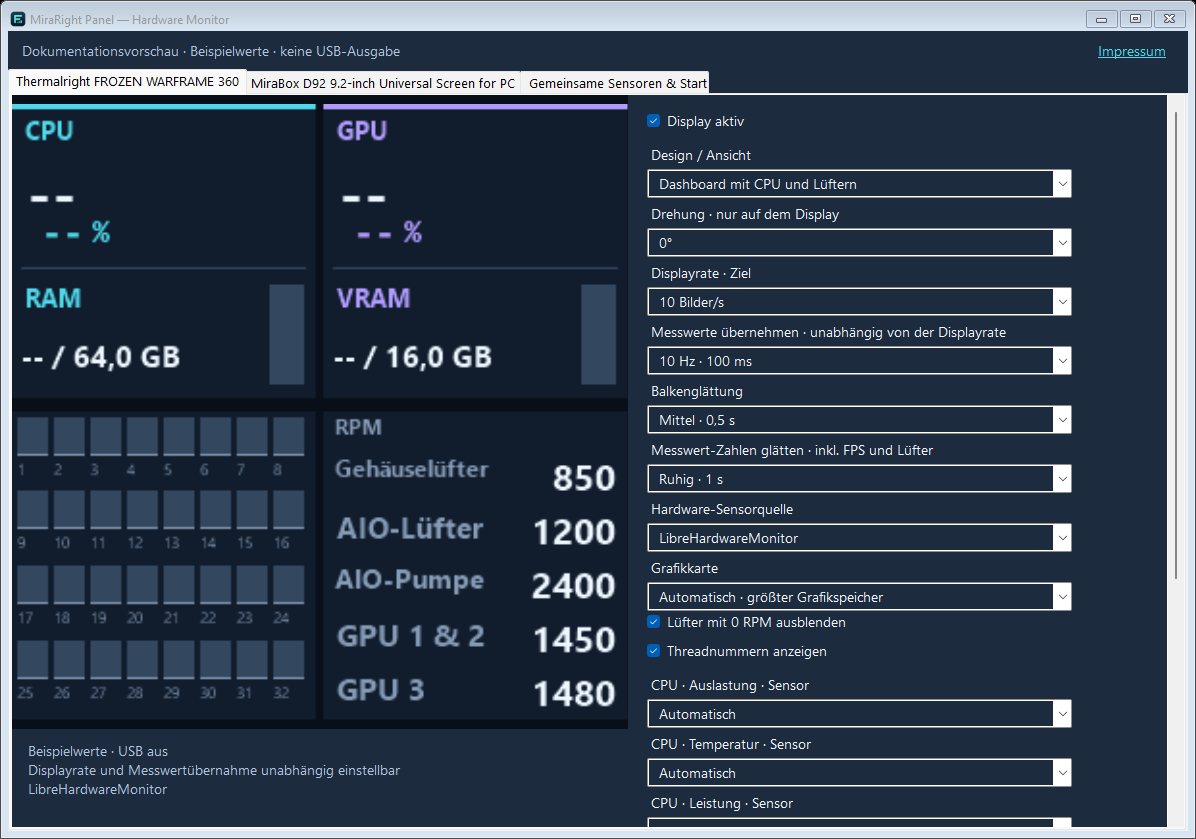
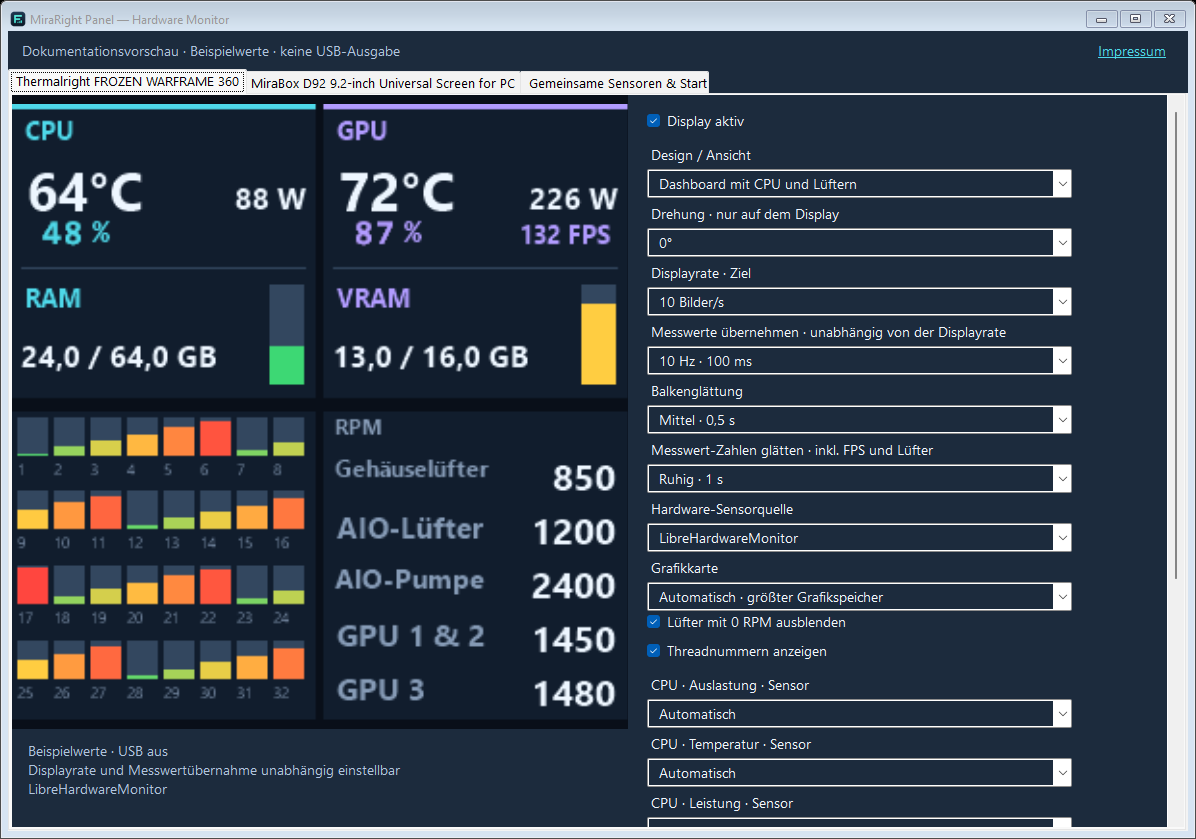
Show CPU and GPU watts with FPS on Thermalright dashboard

diff --git a/src/AioDisplay.App/Rendering/PanelRenderer.cs b/src/AioDisplay.App/Rendering/PanelRenderer.cs
@@ -11,6 +11,15 @@ using System.Windows.Forms;
 
 public static class PanelRenderer
 {
+    public sealed record DashboardMetrics(double? CpuWatts, double? GpuWatts, double? Fps);
+    public static string MetricText(double? value, string unit, bool fresh) => fresh && value is double number && double.IsFinite(number) && number >= 0 && number < 100000 ? number.ToString("0") + " " + unit : "— " + unit;
+    static void RightText(Graphics g, string text, float right, float y, float size, Color color, int maxWidth)
+    {
+        using var font = new Font("Segoe UI", size, FontStyle.Bold, GraphicsUnit.Point);
+        float width = g.MeasureString(text, font).Width;
+        if (width > maxWidth && size > 6) { RightText(g, text, right, y, size - 0.5f, color, maxWidth); return; }
+        using var brush = new SolidBrush(color); g.DrawString(text, font, brush, right - width, y);
+    }
     // Relative to the existing physical mounting orientation; clockwise on the LCD.
     public static void ApplyRotation(Bitmap image, int degrees)
     {
@@ -106,9 +115,9 @@ public static class PanelRenderer
         return load < 50 ? Blend(low, middle, load / 50) : Blend(middle, high, (load - 50) / 50);
     }
     static Color Blend(Color a, Color b, double t) { return Color.FromArgb((int)Math.Round(a.R + (b.R - a.R) * t), (int)Math.Round(a.G + (b.G - a.G) * t), (int)Math.Round(a.B + (b.B - a.B) * t)); }
-    public static Bitmap RenderView(SensorSnapshot s, double total, int view, bool numbers, bool? hideStoppedFans = null)
+    public static Bitmap RenderView(SensorSnapshot s, double total, int view, bool numbers, bool? hideStoppedFans = null, DashboardMetrics metrics = null)
     {
-        if (view == 6) return RenderDashboard(s, total, numbers, FanData.Read(s), hideStoppedFans);
+        if (view == 6) return RenderDashboard(s, total, numbers, FanData.Read(s), hideStoppedFans, metrics);
         if (view == 1) return Render(s, total);
         if (view < 0 || view > 5) view = 0;
         Bitmap bmp = view == 0 ? new Bitmap(320, 320) : Render(s, total);
@@ -176,7 +185,7 @@ public static class PanelRenderer
         Color color = percent >= 90 ? Color.FromArgb(255, 58, 63) : percent >= 85 ? Color.FromArgb(255, 153, 51) : percent >= 80 ? Color.FromArgb(255, 205, 65) : Color.FromArgb(61, 216, 116);
         if (fill > 0) Rect(g, color, x, y + height - fill, width, fill);
     }
-    public static Bitmap RenderDashboard(SensorSnapshot s, double total, bool numbers, System.Collections.Generic.List<FanReading> fans, bool? hideStoppedFans = null)
+    public static Bitmap RenderDashboard(SensorSnapshot s, double total, bool numbers, System.Collections.Generic.List<FanReading> fans, bool? hideStoppedFans = null, DashboardMetrics metrics = null)
     {
         var bmp = Render(s, total); using (var g = Graphics.FromImage(bmp))
         {
@@ -185,8 +194,19 @@ public static class PanelRenderer
             Rect(g, Tile, 0, 0, 158, 153); Rect(g, Tile, 162, 0, 158, 153);
             Rect(g, Cyan, 0, 0, 158, 3); Rect(g, Purple, 162, 0, 158, 3);
             Text(g, "CPU", 5, 5, 10, Cyan); Text(g, "GPU", 167, 5, 10, Purple);
-            Text(g, Value(s, 0x80, "CPU temperature", "°C"), 3, 22, 24, White, 153);
-            Text(g, Value(s, 0, "GPU temperature", "°C"), 165, 22, 24, White, 153);
+            if (metrics == null)
+            {
+                Text(g, Value(s, 0x80, "CPU temperature", "°C"), 3, 22, 24, White, 153);
+                Text(g, Value(s, 0, "GPU temperature", "°C"), 165, 22, 24, White, 153);
+            }
+            else
+            {
+                Text(g, Value(s, 0x80, "CPU temperature", "°C"), 3, 25, 21, White, 92);
+                Text(g, Value(s, 0, "GPU temperature", "°C"), 165, 25, 21, White, 92);
+                RightText(g, MetricText(metrics.CpuWatts, "W", s.Fresh), 155, 39, 11, White, 59);
+                RightText(g, MetricText(metrics.GpuWatts, "W", s.Fresh), 317, 39, 11, White, 59);
+                RightText(g, MetricText(metrics.Fps, "FPS", s.Fresh), 317, 59, 10, Purple, 85);
+            }
             LoadText(g, s, 0x90, "CPU usage", 6, 56, 13, Cyan);
             LoadText(g, s, 0x30, "GPU usage", 168, 56, 13, Purple);
             Rect(g, Track, 5, 85, 148, 1); Rect(g, Track, 167, 85, 148, 1);

diff --git a/tests/AioDisplay.Tests/ThermalrightMetricsChecks.cs b/tests/AioDisplay.Tests/ThermalrightMetricsChecks.cs
@@ -1,0 +1,30 @@
+// SPDX-License-Identifier: GPL-3.0-only
+using AioDisplay.App;
+using System.Drawing;
+
+internal static class ThermalrightMetricsChecks
+{
+    static bool Same(Bitmap a, Bitmap b, Rectangle region)
+    {
+        for(int y=region.Top;y<region.Bottom;y++)for(int x=region.Left;x<region.Right;x++)if(a.GetPixel(x,y)!=b.GetPixel(x,y))return false;
+        return true;
+    }
+    public static void Run()
+    {
+        foreach(double? value in new double?[]{null,double.NaN,double.PositiveInfinity,-1,double.MaxValue})
+            if(PanelRenderer.MetricText(value,"W",true)!="— W")throw new Exception("Invalid metric rendered as valid");
+        if(PanelRenderer.MetricText(0,"W",true)!="0 W"||PanelRenderer.MetricText(144,"FPS",true)!="144 FPS"||PanelRenderer.MetricText(144,"FPS",false)!="— FPS")throw new Exception("Zero/FPS/stale metric text");
+        var sample=new FlexPanel.Snapshot{CpuTemp=73,GpuTemp=81,CpuLoad=9,GpuLoad=100,CpuWatts=105,GpuWatts=275,Fps=144,RamUsed=24,RamTotal=64,VramUsed=12,VramTotal=16,CpuThreads=Enumerable.Range(0,32).Select(i=>(double?)(i*3)).ToArray(),Sensors=[new("cpu","CPU","Cpu","load","CPU Total","Load",9)]};
+        var profile=new DisplayProfile();
+        using var image=UnifiedEngine.RenderThermalright(sample,profile);
+        using var changed=UnifiedEngine.RenderThermalright(sample with{CpuWatts=250,GpuWatts=499,Fps=999},profile);
+        if(Same(image,changed,new Rectangle(96,35,60,22))||Same(image,changed,new Rectangle(258,35,60,22))||Same(image,changed,new Rectangle(232,58,86,23)))throw new Exception("Power/FPS not connected to Thermalright dashboard");
+        if(!Same(image,changed,new Rectangle(0,85,320,235))||!Same(image,changed,new Rectangle(163,56,65,25)))throw new Exception("New readouts affected memory/threads/fans or GPU percent slots");
+        using var missing=UnifiedEngine.RenderThermalright(sample with{CpuWatts=null,GpuWatts=null,Fps=null},profile);
+        using var invalid=UnifiedEngine.RenderThermalright(sample with{CpuWatts=double.NaN,GpuWatts=-1,Fps=double.PositiveInfinity},profile);
+        if(!Same(missing,invalid,new Rectangle(0,0,320,320)))throw new Exception("Missing and invalid values must both be unavailable");
+        image.Save("work/thermalright-watts-fps.png");missing.Save("work/thermalright-watts-fps-missing.png");
+        using var large=UnifiedEngine.RenderThermalright(sample with{CpuTemp=105,GpuTemp=100,CpuWatts=9999,GpuWatts=9999,Fps=9999},profile);large.Save("work/thermalright-watts-fps-large.png");
+        Console.WriteLine("PASS: Thermalright watts/FPS, missing/invalid/zero/stale readouts and unchanged lower layout/percent slots");
+    }
+}

diff --git a/tests/AioDisplay.Tests/TestRunner.cs b/tests/AioDisplay.Tests/TestRunner.cs
@@ -25,7 +25,7 @@ internal static class TestRunner
             if (args.FirstOrDefault() == "--lifecycle") { IntegrationChecks.Lifecycle(args[2], args[3]); return 0; }
             if (args.FirstOrDefault() == "--parent-harness") { IntegrationChecks.ParentHarness(args[2]); return 0; }
             foreach (var type in new[] { typeof(Check), typeof(SettingsCheck), typeof(BarAveragerCheck), typeof(HardwareCheck), typeof(SnapshotFilesCheck), typeof(AboutChecks) }) type.GetMethod("Main", BindingFlags.Static | BindingFlags.Public | BindingFlags.NonPublic).Invoke(null, null);
-            DiscoveryChecks.Main(); FanNamesChecks.Main(); ProtocolChecks(); DebugLogChecks.Run(); PercentageChecks.Run(); ReadoutChecks.Run(); GpuDetailsChecks.Run(); UnifiedChecks.Run(); Console.WriteLine("ALL REGRESSION TESTS PASSED"); return 0;
+            DiscoveryChecks.Main(); FanNamesChecks.Main(); ProtocolChecks(); DebugLogChecks.Run(); PercentageChecks.Run(); ReadoutChecks.Run(); GpuDetailsChecks.Run(); UnifiedChecks.Run(); ThermalrightMetricsChecks.Run(); Console.WriteLine("ALL REGRESSION TESTS PASSED"); return 0;
         }
         catch (Exception e) { Console.Error.WriteLine(e is TargetInvocationException ? e.InnerException : e); return 1; }
         finally { SensorHub.Stop(); }

diff --git a/src/AioDisplay.App/Services/UnifiedEngine.cs b/src/AioDisplay.App/Services/UnifiedEngine.cs
@@ -16,7 +16,7 @@ public sealed class UnifiedEngine : IDisposable {
  public static Bitmap RenderThermalright(FlexPanel.Snapshot sample,DisplayProfile profile){
   var adapted=UnifiedSensorHub.ToAio(sample);
   foreach(var bar in sample.BarValues)adapted.BarValues[bar.Key.StartsWith("thread:")?"thread:"+(int.Parse(bar.Key[7..])+1):bar.Key]=bar.Key is "ram" or "vram"?bar.Value*1024:bar.Value;
-  return PanelRenderer.RenderView(adapted,sample.RamTotal??double.NaN,profile.AioView,profile.ThreadNumbers,profile.HideStoppedFans);
+  return PanelRenderer.RenderView(adapted,sample.RamTotal??double.NaN,profile.AioView,profile.ThreadNumbers,profile.HideStoppedFans,new PanelRenderer.DashboardMetrics(sample.CpuWatts,sample.GpuWatts,sample.Fps));
  }
  public void Start(){
   sensorTask=Task.Run(async()=>{try{while(!stop.IsCancellationRequested){try{latest=hub.Read();}catch(Exception e){latest=new();Log.Write("Shared sensors: "+e.Message);}await Task.Delay(50,stop.Token);}}catch(OperationCanceledException)when(stop.IsCancellationRequested){}});

diff --git a/tools/Screenshots/Program.cs b/tools/Screenshots/Program.cs
@@ -31,6 +31,7 @@ static class DocumentationScreenshots
             RamUsed=24, RamTotal=64, RamFree=40, RamTemp=42, RamWatts=null,
             VramUsed=13, VramTotal=16, VramFree=3,
             Fps=132, FrameMs=7.58, FrameApp="Beispiel-Spiel.exe", SourceName="LibreHardwareMonitor",
+            Sensors=[new("example-cpu","Beispiel-CPU","Cpu","example-load","CPU Total","Load",48)],
             Fans=[new("case","Gehäuselüfter",850,"LibreHardwareMonitor",42,"","","",""),
                   new("cpu","AIO-Lüfter",1200,"LibreHardwareMonitor",64,"","","",""),
                   new("pump","AIO-Pumpe",2400,"LibreHardwareMonitor",null,"","","",""),

diff --git a/CHANGELOG.md b/CHANGELOG.md
@@ -1,5 +1,13 @@
 # Änderungen
 
+## 2.0.0-preview.7 — Thermalright-Dashboard (noch kein GitHub-Release)
+
+- CPU-/GPU-Leistungsaufnahme rechts neben der jeweiligen Temperatur auf dem 320×320-Dashboard.
+- FPS der aktiven Anwendung rechts neben der GPU-Prozentlast, aus der gemeinsamen PresentMon-Erfassung.
+- Kompaktere Temperaturzahlen; fehlende, ungültige und veraltete Zusatzwerte erscheinen als nicht verfügbar.
+- Dokumentationsvorschau mit gültig gekennzeichneten Beispielsensordaten und aktualisierten Thermalright-Bildern.
+- Tests für Wertübergabe, fehlende/Null-/ungültige Werte und unveränderte Speicher-/Thread-/Lüfterbereiche; 42 historische Referenzbilder unverändert.
+
 ## 2.0.0-preview.3 — Öffentliche Vorschau
 
 - Datenschutzhinweise für lokalen Betrieb, IONOS-E-Mail-Support und GitHub-Beiträge.

diff --git a/README.md b/README.md
@@ -48,7 +48,9 @@ Lüfter und Schriftplatz hängen von deiner Hardware und deinen Einstellungen ab
 ### Thermalright FROZEN WARFRAME 360
 
 Dashboard mit CPU-Gesamtlast, einzelnen CPU-Threads, Temperaturen, Speicher und Lüftern
-auf dem unterstützten 320-×-320-Controller. Die Software-Vorschau bleibt bei gedrehter LCD-Ausgabe aufrecht.
+auf dem unterstützten 320-×-320-Controller. CPU-/GPU-Watt stehen jeweils neben der Temperatur;
+FPS der aktiven Anwendung rechts neben der GPU-Prozentlast. Ohne gültige Messung erscheint `—`.
+Die Software-Vorschau bleibt bei gedrehter LCD-Ausgabe aufrecht.
 
 ![Thermalright FROZEN WARFRAME 360: Dashboard in nativer Auflösung](docs/images/miraright-panel-thermalright-dashboard.png)
 
